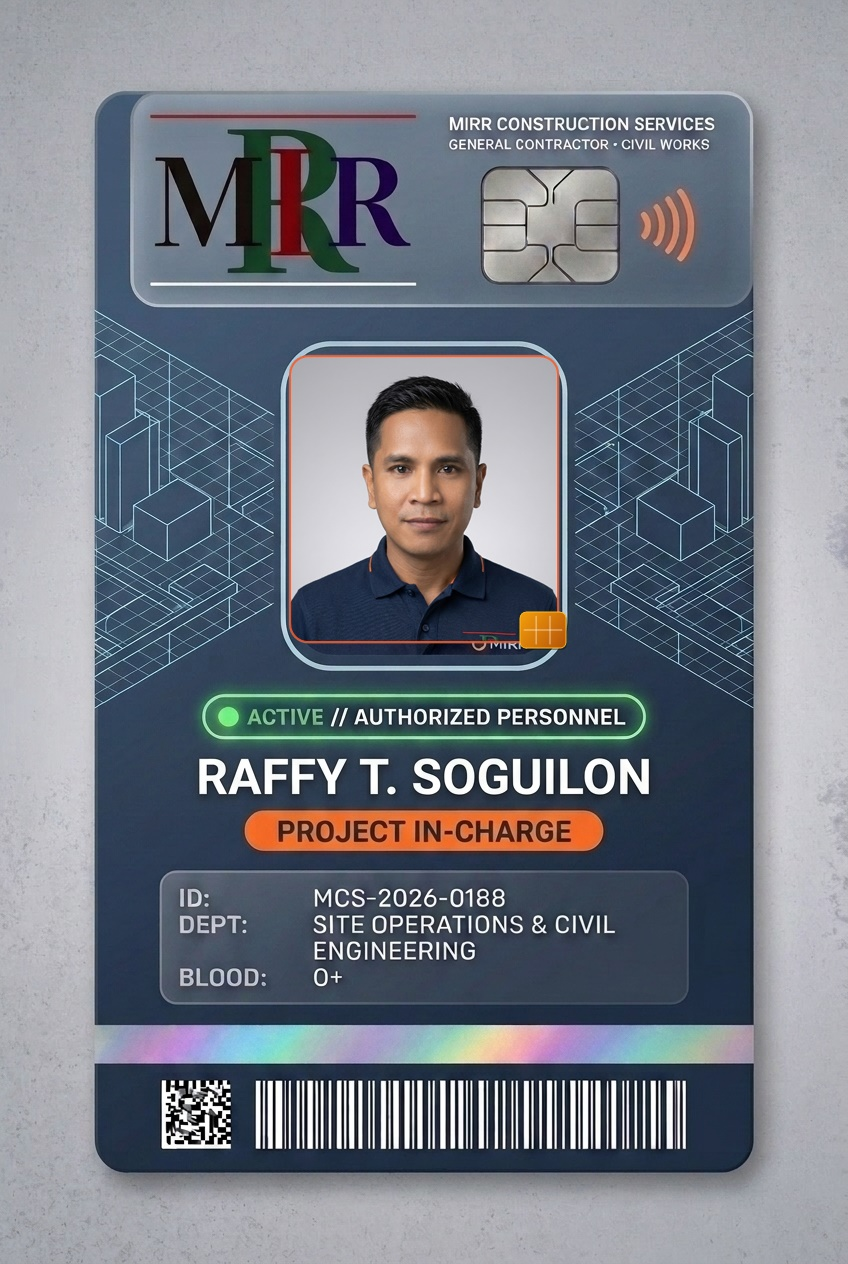
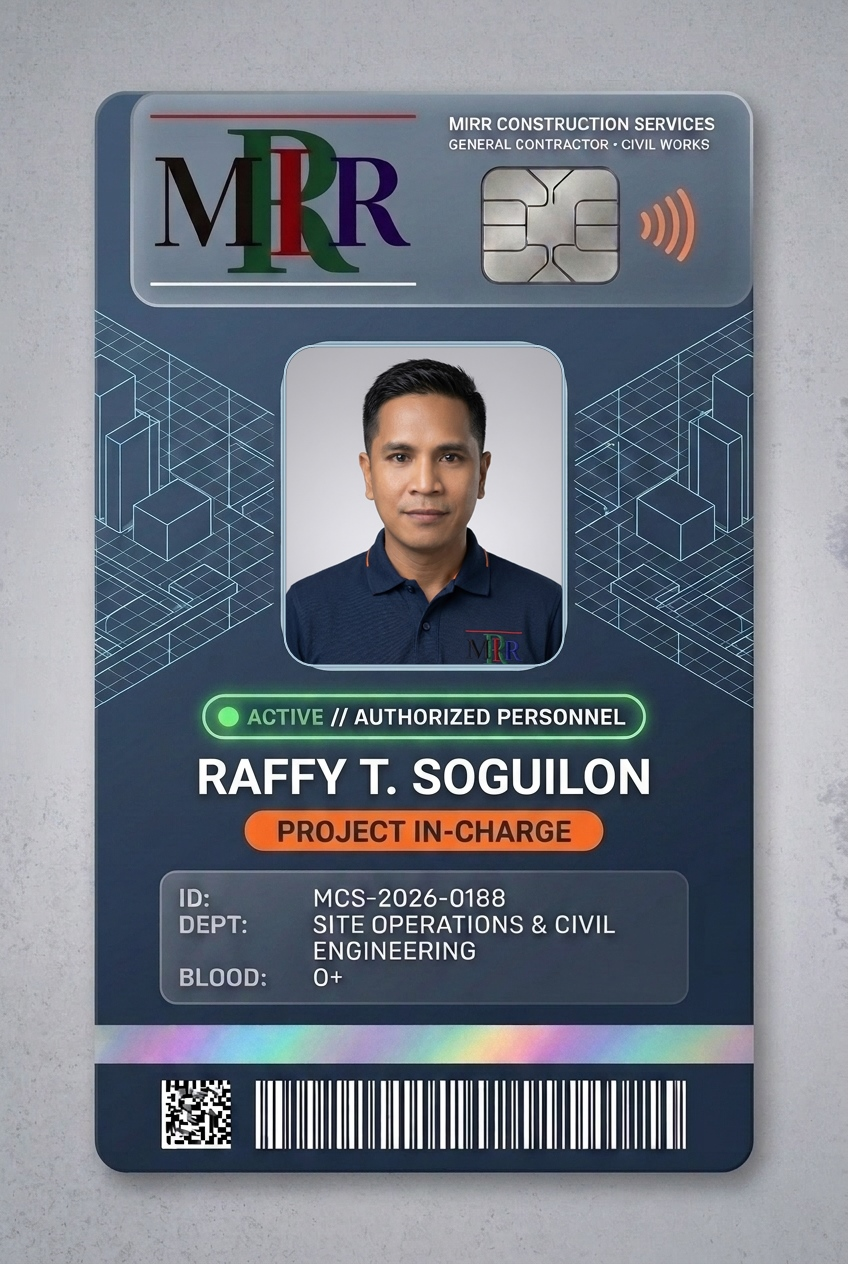
Update ID photo to fit line boundary with smooth curved corners

Changed region(s): [[0.3373, 0.2468, 0.6745, 0.5245]]

diff --git a/MIRR_Employee_ID_Card.html b/MIRR_Employee_ID_Card.html
@@ -305,15 +305,15 @@
   }
 
   .photo-frame-modern {
-    width: 126px;
-    height: 146px;
-    border-radius: 2px;
+    width: 130px;
+    height: 150px;
+    border-radius: 14px;
     position: relative;
     overflow: hidden;
-    border: 1.5px solid rgba(210, 225, 240, 0.9);
+    border: 2px solid rgba(186, 216, 232, 0.9);
     box-shadow: 
-      0 0 0 1px rgba(15, 23, 42, 0.6),
-      0 10px 24px rgba(0, 0, 0, 0.5);
+      0 0 0 1px rgba(15, 23, 42, 0.7),
+      0 12px 28px rgba(0, 0, 0, 0.5);
     background: #1e293b;
   }
 
